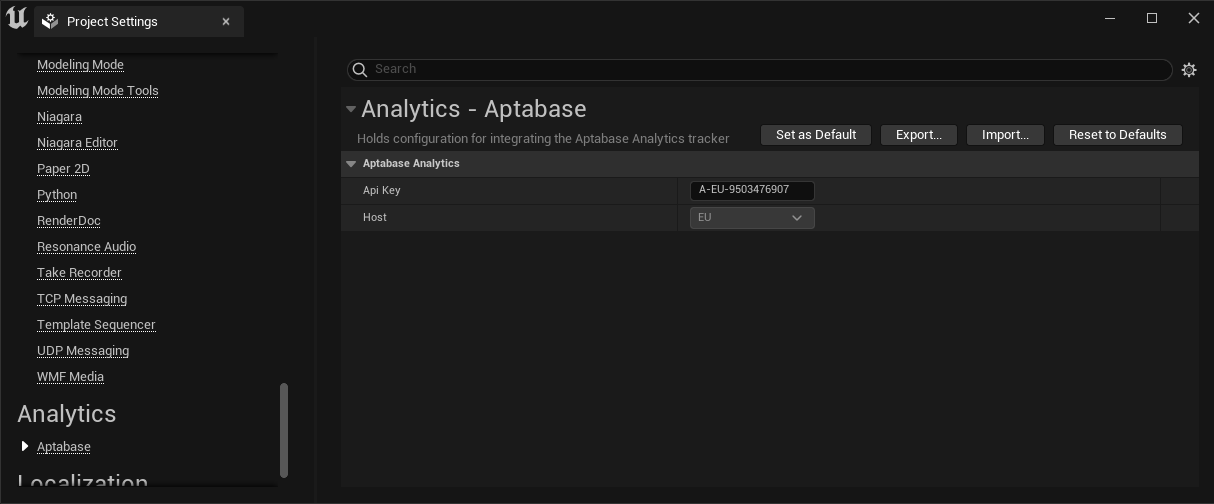
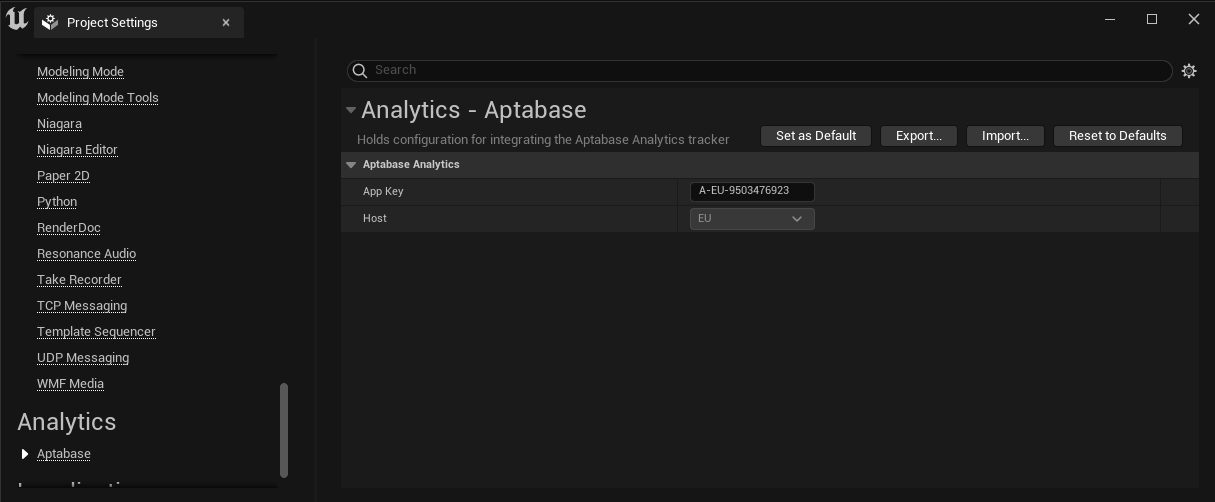
renamed ApiKey to app AppKey

diff --git a/Source/Aptabase/Private/AptabaseAnalyticsProvider.cpp b/Source/Aptabase/Private/AptabaseAnalyticsProvider.cpp
@@ -103,7 +103,7 @@ void FAptabaseAnalyticsProvider::RecordEvent(const FString& EventName, const TAr
 	const TSharedRef<IHttpRequest> HttpRequest = FHttpModule::Get().CreateRequest();
 	HttpRequest->SetVerb("POST");
 	HttpRequest->SetContentAsString(RequestJsonPayload);
-	HttpRequest->SetHeader(TEXT("App-Key"), Settings->ApiKey);
+	HttpRequest->SetHeader(TEXT("App-Key"), Settings->AppKey);
 	HttpRequest->SetHeader(TEXT("Content-Type"), TEXT("application/json"));
 	HttpRequest->SetURL(RequestUrl);
 	HttpRequest->OnProcessRequestComplete().BindRaw(this, &FAptabaseAnalyticsProvider::OnEventRecoded);

diff --git a/Source/Aptabase/Private/AptabaseSettings.cpp b/Source/Aptabase/Private/AptabaseSettings.cpp
@@ -42,10 +42,10 @@ void UAptabaseSettings::PostEditChangeProperty(FPropertyChangedEvent& PropertyCh
 {
 	Super::PostEditChangeProperty(PropertyChangedEvent);
 
-	if (PropertyChangedEvent.GetPropertyName() == GET_MEMBER_NAME_CHECKED(UAptabaseSettings, ApiKey))
+	if (PropertyChangedEvent.GetPropertyName() == GET_MEMBER_NAME_CHECKED(UAptabaseSettings, AppKey))
 	{
 		TArray<FString> Parts;
-		ApiKey.ParseIntoArray(Parts, TEXT("-"));
+		AppKey.ParseIntoArray(Parts, TEXT("-"));
 
 		int64 EnumValue = -1; // If the parts were not parsed as we expected, we default to (INVALID).
 		if (Parts.Num() == 3)

diff --git a/Source/Aptabase/Private/AptabaseSettings.h b/Source/Aptabase/Private/AptabaseSettings.h
@@ -33,9 +33,9 @@ public:
 	 * @brief Key used to identify your app when making requests
 	 */
 	UPROPERTY(Config, EditAnywhere, Category = "Aptabase Analytics")
-	FString ApiKey = TEXT("");
+	FString AppKey = TEXT("");
 	/**
-	 * @brief Automatically determined based on the ApiKey. Will decide the
+	 * @brief Automatically determined based on the AppKey. Will decide the
 	 */
 	UPROPERTY(Config, VisibleAnywhere, Category = "Aptabase Analytics")
 	EAptabaseHost Host;

diff --git a/README.md b/README.md
@@ -32,7 +32,7 @@ ProviderModuleName=Aptabase
 
 First, you need to get your `App Key` from Aptabase, you can find it in the `Instructions` menu on the left side menu.
 
-Then you have to set it inside `Project Settings → Analytics → Aptabase` inside your `Api Key` field.
+Then you have to set it inside `Project Settings → Analytics → Aptabase` inside your `App Key` field.
 
 Based on the key, your `Host` will be selected. In the case of self-hosted versions, you will get an input field to enter your custom URL.
 
